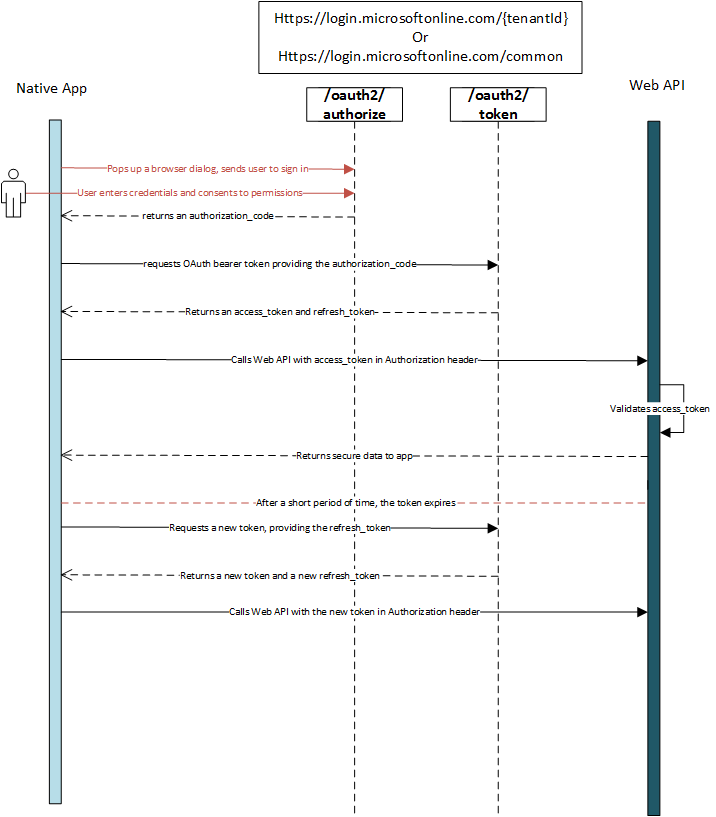
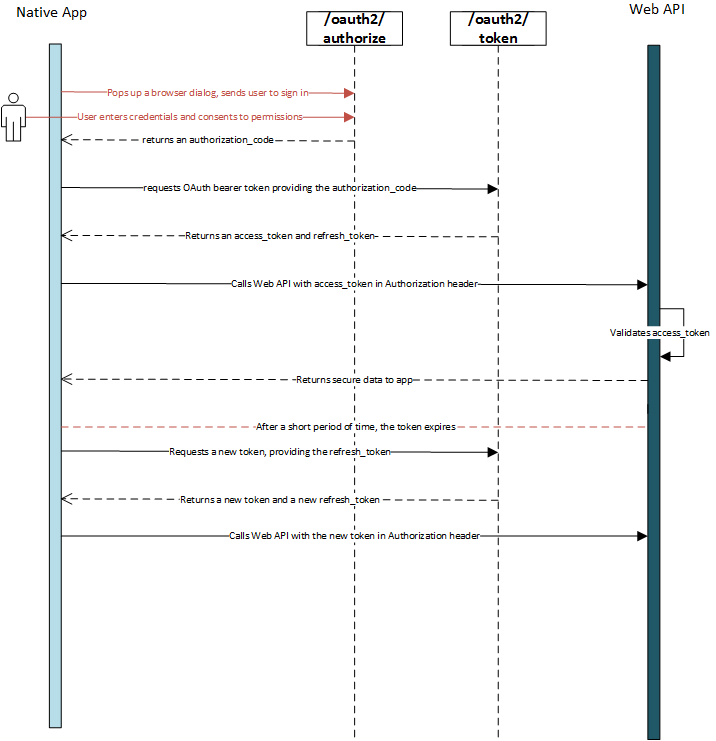
Fixed doc link & updated sequence diagram

diff --git a/docs/Readme.md b/docs/Readme.md
@@ -1,6 +1,6 @@
 # Implementation reference of the oAuth2 protocol
 
-![](https://github.com/loustak/awi-auth-back/blob/lucas-doc/docs/oatuh-sequence-diagram.png?raw=true)
+![](https://github.com/loustak/awi-auth-back/blob/master/docs/oatuh-sequence-diagram.png?raw=true)
 
 **To better understand the protocol [check the microsoft documentation](https://docs.microsoft.com/fr-fr/azure/active-directory/develop/v1-protocols-oauth-code).**
 
